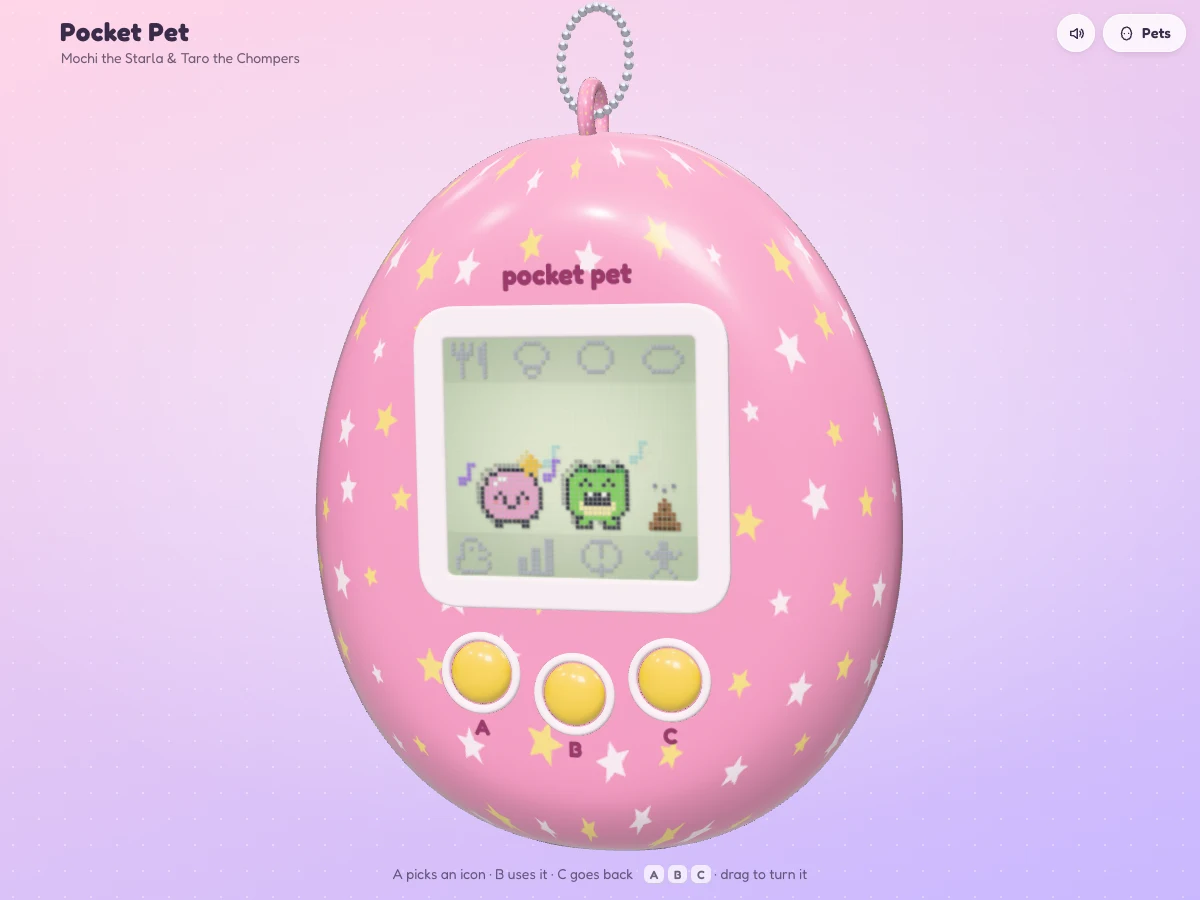
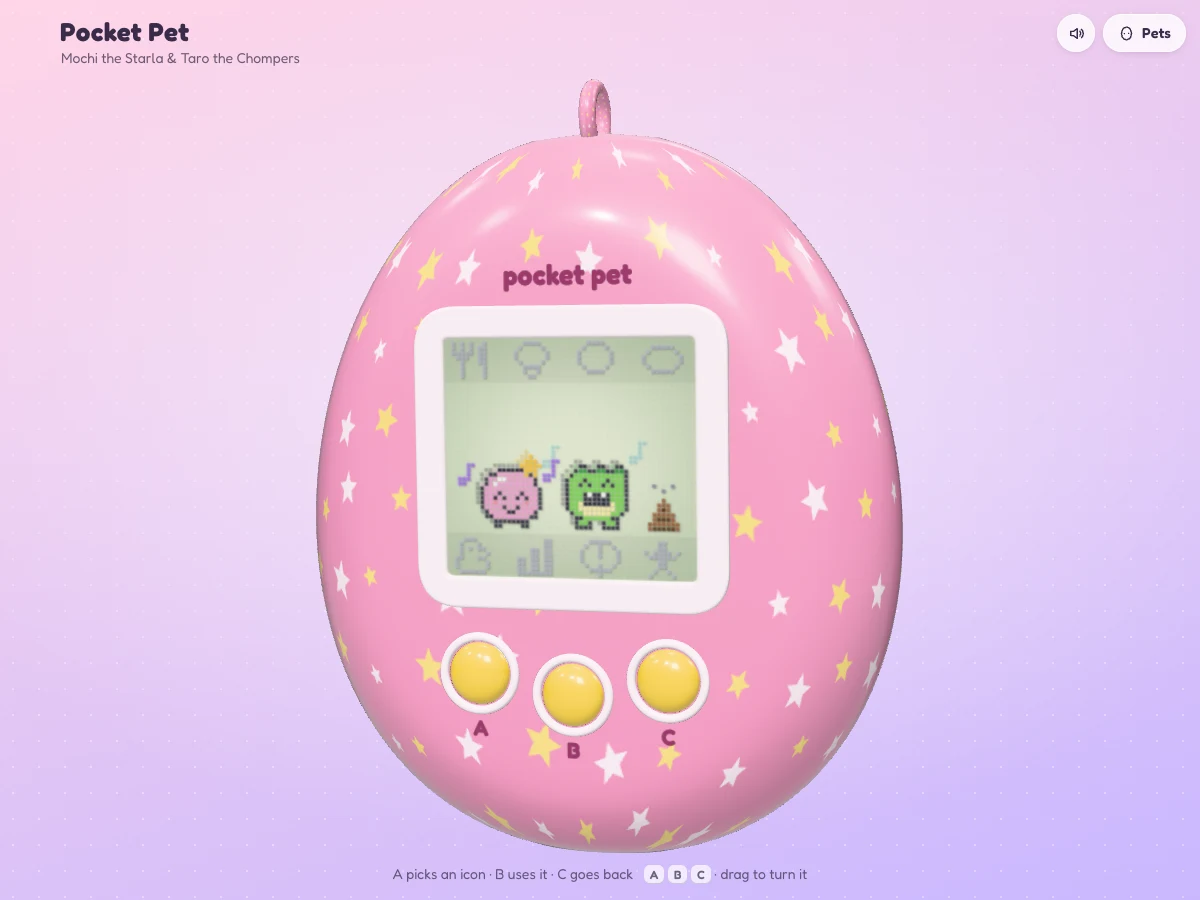
Pocket Pet: clean up small faces and drop the keychain chain
The baby (Blip) showed a solid black bar across its face when it smiled:
at 8 px wide, its 3-px "^" eyes, the corners of its grin and the outline
all landed on one row. Faces now keep a clear pixel between each
feature, the other eye and the outline: the grin is a ∪ that hangs
below its row, "^ ^" eyes are used only where they fit (otherwise the
pet smiles with its eyes closed), and closed eyes grow outward. Blip is
redrawn at 10x10 so its face has room, and Pomu's and Tibbit's smiles
no longer run into their eyes.

The ball chain is removed; the small loop molded into the top of the
shell stays. Preview re-captured.

diff --git a/pet/index.html b/pet/index.html
@@ -183,9 +183,9 @@ const BASE = { K: 0x2d2942, W: 0xffffff, B: 0xff8fab, R: 0xef476f, Y: 0xffc93c, 
 // sleep: [bedtime hour, wake hour] local time; rates: minutes awake per lost heart, and between poops
 const SPECIES = {
   egg: { stage: 'egg', label: 'Egg' },
-  blip: { stage: 'baby', label: 'Blip', weight: 5, eye: 'dot', mouth: 'small', eyes: [[2, 2], [5, 2]], mouthAt: [3, 4],
+  blip: { stage: 'baby', label: 'Blip', weight: 5, eye: 'tall', mouth: 'small', eyes: [[3, 3], [6, 3]], mouthAt: [4, 6],
     pal: { M: 0xffe27a, H: 0xfff8d6 }, rates: { hunger: [6, 8], happy: [7, 10], poop: [15, 22] }, sleep: null,
-    art: ['..KKKK..', '.KMMMMK.', 'KMHMMMMK', 'KMMMMMMK', 'KMMMMMMK', '.KMMMMK.', '..KKKK..'] },
+    art: ['...KKKK...', '.KKMMMMKK.', '.KHMMMMMK.', 'KMMMMMMMMK', 'KMMMMMMMMK', 'KMMMMMMMMK', 'KMMMMMMMMK', 'KMMMMMMMMK', '.KMMMMMMK.', '..KKKKKK..'] },
   pomu: { stage: 'child', label: 'Pomu', weight: 10, eye: 'tall', mouth: 'smile', eyes: [[3, 5], [7, 5]], mouthAt: [4, 8], blush: [[2, 7], [8, 7]],
     pal: { M: 0xffb3c7, H: 0xffffff }, rates: { hunger: [50, 70], happy: [45, 65], poop: [140, 200] }, sleep: [20, 8],
     art: ['.....g.....', '....gGg....', '.....g.....', '...KKKKK...', '..KMMMMMK..', '.KMHMMMMMK.', '.KMMMMMMMK.', '.KMMMMMMMK.', '.KMMMMMMMK.', '..KMMMMMK..', '...KKKKK...', '...KK.KK...'] },
@@ -655,20 +655,26 @@ function drawPet(b, p, x, floor, o = {}) {
   face(b, sp, left, top, o);
   return { left, top, w, h };
 }
+// Faces are drawn on top of the body, and every feature keeps a clear pixel between itself, the other eye and the
+// outline, so a small face never runs together into a bar.
 function face(b, sp, x, y, o) {
-  const K = BASE.K, M = sp.pal.M, tall = sp.eye === 'tall', look = o.look || 0;
+  const K = BASE.K, M = sp.pal.M, tall = sp.eye === 'tall', look = o.look || 0, art = sp.art;
+  const clear = (ax, ay) => { const r = art[ay] || ''; const c = r[ax]; return !!c && c !== '.' && c !== 'K' && r[ax - 1] !== 'K' && r[ax + 1] !== 'K'; };
+  const dot = (ax, ay) => put(b, x + ax, y + ay, K);
+  const [[lx, ly], [rx]] = sp.eyes, roomy = rx - lx >= 4;
   let eyes = o.eyes || (sp.grumpy ? 'grumpy' : sp.droopy ? 'droopy' : 'open');
-  sp.eyes.forEach(([ex0, ey0], i) => {
-    const ex = x + ex0 + look, ey = y + ey0, out = i ? 1 : -1, low = ey + (tall ? 1 : 0);
+  if (eyes === 'happy' && !(roomy && clear(lx - 1 + look, ly + 1) && clear(rx + 1 + look, ly + 1))) eyes = 'closed';   // no room for ^ ^
+  sp.eyes.forEach(([ex0, ay], i) => {
+    const ax = ex0 + look, out = i ? 1 : -1, low = ay + (tall ? 1 : 0);
     switch (eyes) {
-      case 'open': put(b, ex, ey, K); if (tall) put(b, ex, ey + 1, K); break;
-      case 'closed': put(b, ex, low, K); put(b, ex + out, low, K); break;
-      case 'happy': put(b, ex, ey, K); put(b, ex - 1, ey + 1, K); put(b, ex + 1, ey + 1, K); break;
-      case 'sad': put(b, ex, low, K); put(b, ex - out, ey - 1, K); break;
-      case 'angry': put(b, ex, ey, K); if (tall) put(b, ex, ey + 1, K); put(b, ex + out, ey - 2, K); put(b, ex, ey - 1, K); break;
-      case 'grumpy': put(b, ex, low, K); put(b, ex - out, low - 1, K); put(b, ex, low - 1, K); break;
-      case 'droopy': put(b, ex, low, K); put(b, ex + out, low - 1, K); break;
-      case 'x': put(b, ex - 1, ey, K); put(b, ex + 1, ey, K); put(b, ex, ey + 1, K); put(b, ex - 1, ey + 2, K); put(b, ex + 1, ey + 2, K); break;
+      case 'open': dot(ax, ay); if (tall) dot(ax, ay + 1); break;
+      case 'closed': dot(ax, low); if (clear(ax + out, low)) dot(ax + out, low); else if (roomy && clear(ax - out, low)) dot(ax - out, low); break;
+      case 'happy': dot(ax, ay); dot(ax - 1, ay + 1); dot(ax + 1, ay + 1); break;
+      case 'sad': dot(ax, low); if (roomy && clear(ax - out, ay - 1)) dot(ax - out, ay - 1); break;
+      case 'angry': dot(ax, ay); if (tall) dot(ax, ay + 1); if (roomy && clear(ax - out, ay - 1)) dot(ax - out, ay - 1); break;
+      case 'grumpy': dot(ax, low); if (clear(ax - out, low - 1)) dot(ax - out, low - 1); break;
+      case 'droopy': dot(ax, low); if (clear(ax + out, low - 1)) dot(ax + out, low - 1); break;
+      case 'x': dot(ax - 1, ay); dot(ax + 1, ay); dot(ax, ay + 1); dot(ax - 1, ay + 2); dot(ax + 1, ay + 2); break;
     }
   });
   if (sp.blush && (o.mouth === 'happy' || eyes === 'happy')) for (const [bx, by] of sp.blush) put(b, x + bx + look, y + by, BASE.B);
@@ -695,12 +701,11 @@ function face(b, sp, x, y, o) {
       if (mouth === 'open') { put(b, mx + 3, my + 2, K); put(b, mx + 4, my + 2, K); }
       return;
   }
-  const small = sp.mouth === 'small';
-  switch (mouth) {
+  switch (mouth) {                                  // mouths hang downward from their row, clear of the eyes above
     case 'smile': put(b, mx, my, K); put(b, mx + 1, my, K); break;
-    case 'happy': if (small) { put(b, mx, my, K); put(b, mx + 1, my, K); put(b, mx - 1, my - 1, K); put(b, mx + 2, my - 1, K); } else { put(b, mx - 1, my - 1, K); put(b, mx, my, K); put(b, mx + 1, my, K); put(b, mx + 2, my - 1, K); } break;
+    case 'happy': put(b, mx - 1, my, K); put(b, mx + 2, my, K); put(b, mx, my + 1, K); put(b, mx + 1, my + 1, K); break;
     case 'open': rect(b, mx, my, 2, 2, K); break;
-    case 'sad': put(b, mx - 1, my + 1, K); put(b, mx, my, K); put(b, mx + 1, my, K); put(b, mx + 2, my + 1, K); break;
+    case 'sad': put(b, mx, my, K); put(b, mx + 1, my, K); put(b, mx - 1, my + 1, K); put(b, mx + 2, my + 1, K); break;
     case 'flat': rect(b, mx - 1, my, 4, 1, K); break;
   }
 }
@@ -1103,10 +1108,6 @@ const labels = ['A', 'B', 'C'].map((s, i) => { const m = decal(s, 0.34, 0.34, '7
 const logo = decal('pocket pet', 1.3, 0.3, '700 96px Fredoka, system-ui, sans-serif', '#fff'); logo.position.set(0, SCREEN_Y + SCREEN_H / 2 + 0.52, FLAT + 0.004); dev.add(logo);
 // keychain loop
 const loop = new THREE.Mesh(new THREE.TorusGeometry(0.26, 0.075, 16, 40), shellMat); loop.rotation.y = Math.PI / 2; loop.position.y = EGG_H + 0.14; dev.add(loop);
-const chain = new THREE.Group();
-for (let k = 0; k < 30; k++) { const a = k / 30 * Math.PI * 2; const s = new THREE.Mesh(new THREE.SphereGeometry(0.045, 10, 8), metal); s.position.set(Math.sin(a) * 0.32, 0.5 - Math.cos(a) * 0.5, 0); chain.add(s); }
-chain.position.y = EGG_H + 0.14;
-dev.add(chain);
 // the back: battery door and a screw
 const door = new THREE.Mesh(new THREE.ExtrudeGeometry(roundRect(2.1, 1.5, 0.25), { depth: 0.02, bevelEnabled: true, bevelThickness: 0.015, bevelSize: 0.02, bevelSegments: 2 }), bezelMat);
 door.position.set(0, -0.2, -FLAT - 0.035); dev.add(door);
@@ -1557,7 +1558,6 @@ function frame(ms) {
   const tt = ms / 1000, still = matchMedia('(prefers-reduced-motion: reduce)').matches ? 0 : 1;
   dev.rotation.set(turn.pitch + 0.05 * Math.sin(tt * 0.9) * still, turn.yaw + 0.06 * Math.sin(tt * 0.6) * still, 0.03 * Math.sin(tt * 0.7) * still, 'XYZ');   // tip toward you about the screen's axis, whichever way it's turned
   hold.position.y = 0.08 * Math.sin(tt * 1.1) * still;
-  chain.rotation.x = 0.15 * Math.sin(tt * 1.3) * still - turn.pitch * 0.3;
   for (const b of buttons) { b.userData.press = Math.max(0, b.userData.press - dt * 7); b.userData.cap.position.z = -0.02 - 0.07 * Math.min(1, b.userData.press * 1.5); }
   renderer.render(scene, camera);
   requestAnimationFrame(frame);
